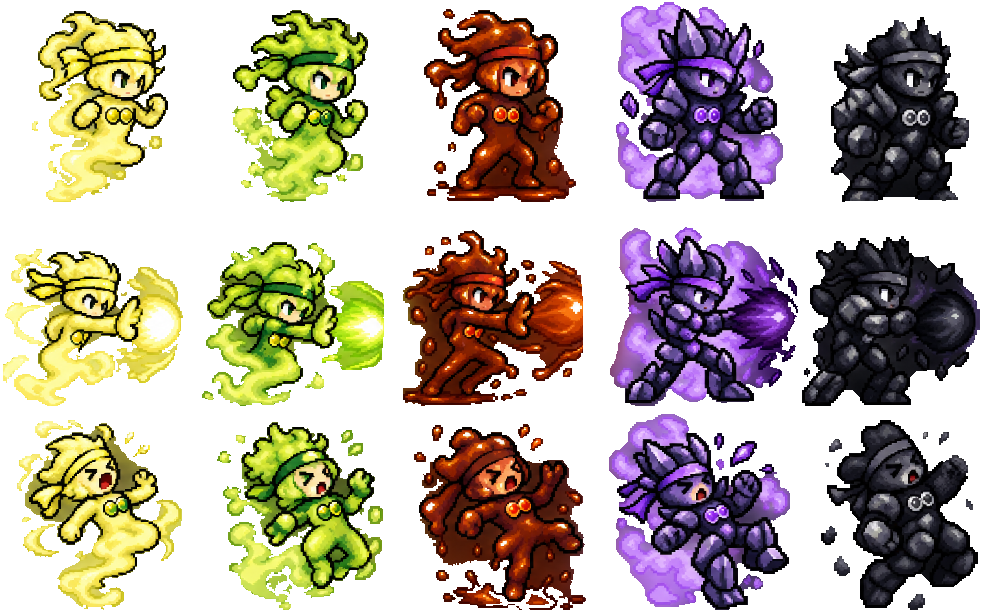
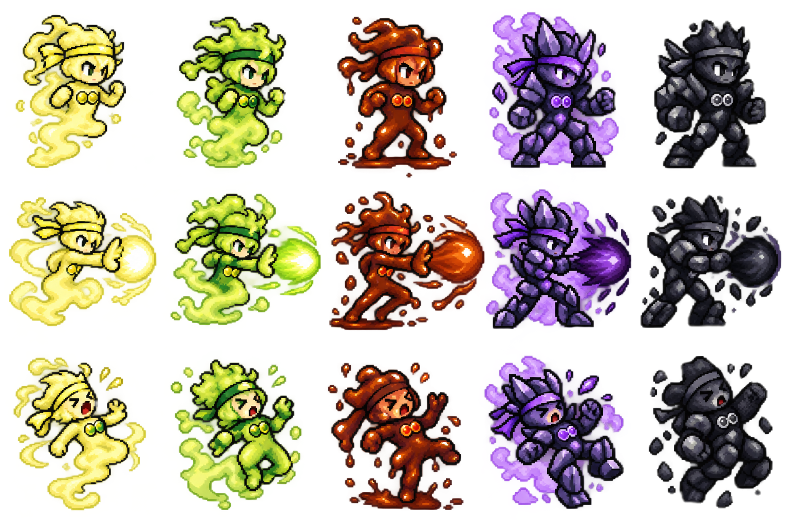
updated halogens sprites

diff --git a/periodicpanic.html b/periodicpanic.html
@@ -2082,7 +2082,9 @@ function drawSheetFighter(k, x, y, s, o) {
   var bob = HAL[k].state === "gas" && !o.sil ? Math.sin(t * 3 + x) * 4 : 0;
   var dx = x - w / 2 + (o.lunge || 0) * s + (row === 1 ? w * .16 : 0) + (o.shake || o.hurt ? Math.sin(t * 70) * 3 : 0);
   ctx.save(); ctx.imageSmoothingEnabled = true; ctx.imageSmoothingQuality = "high";
-  ctx.drawImage(o.sil ? HSHEET.sil : HSHEET.img, col * HSHEET.cw, row * HSHEET.ch, HSHEET.cw, HSHEET.ch, dx, y - h + 12 * s + bob, w, h);
+  // attack frames: trim a thin strip on the left, where the previous fighter's blast can spill into this cell
+  var trim = row === 1 ? .08 : 0;
+  ctx.drawImage(o.sil ? HSHEET.sil : HSHEET.img, col * HSHEET.cw + HSHEET.cw * trim, row * HSHEET.ch, HSHEET.cw * (1 - trim), HSHEET.ch, dx + w * trim, y - h + 12 * s + bob, w * (1 - trim), h);
   if (o.sil) { ctx.fillStyle = "#8C86A8"; ctx.font = "800 " + Math.round(34 * s) + "px 'Open Sans', sans-serif"; ctx.textAlign = "center"; ctx.textBaseline = "middle"; ctx.fillText("?", x, y - h * .55); }
   ctx.restore();
 }
